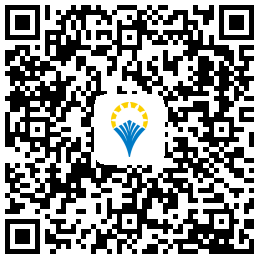
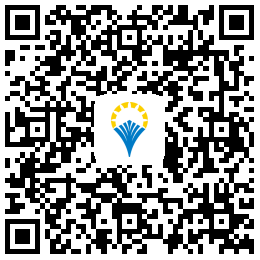
qrcode change

diff --git a/src/components/Download/download.vue b/src/components/Download/download.vue
@@ -25,9 +25,9 @@
                     <div class="download-btn" @click="downloadApk"><img src="../../assets/images/d4.png" alt=""> {{$t('download.btn1')}}</div>
                   </div>
                   <div class="download-box  col-xs-6 col-sm-6 col-md-6">
-                    <div><img src="../../assets/images/go-ios-download.png" alt=""></div>
+                    <div><img src="../../assets/images/erc20-wallet-ios-qrcode.png" alt=""></div>
                     <!-- <p>{{$t('download.btn2')}}</p> -->
-                     <div class="download-btn" @click="iosDownload"><img src="/static/img/d2.png" alt=""> {{$t('download.btn2')}}</div>
+                    <div class="download-btn" @click="iosDownload"><img src="/static/img/d2.png" alt=""> {{$t('download.btn2')}}</div>
                   </div>
                 </div>
 
@@ -65,7 +65,7 @@ export default {
   methods: {
     downloadApk: function() {
       window.location.href =
-        "https://www.ifoodschain.com/download/android/ifood-android-V1.2.2.apk";
+        "https://www.ifoodschain.com/download/android/ifood-android-V1.2.6.apk";
     },
     iosDownload: function() {
       // this.isAlert = true;
